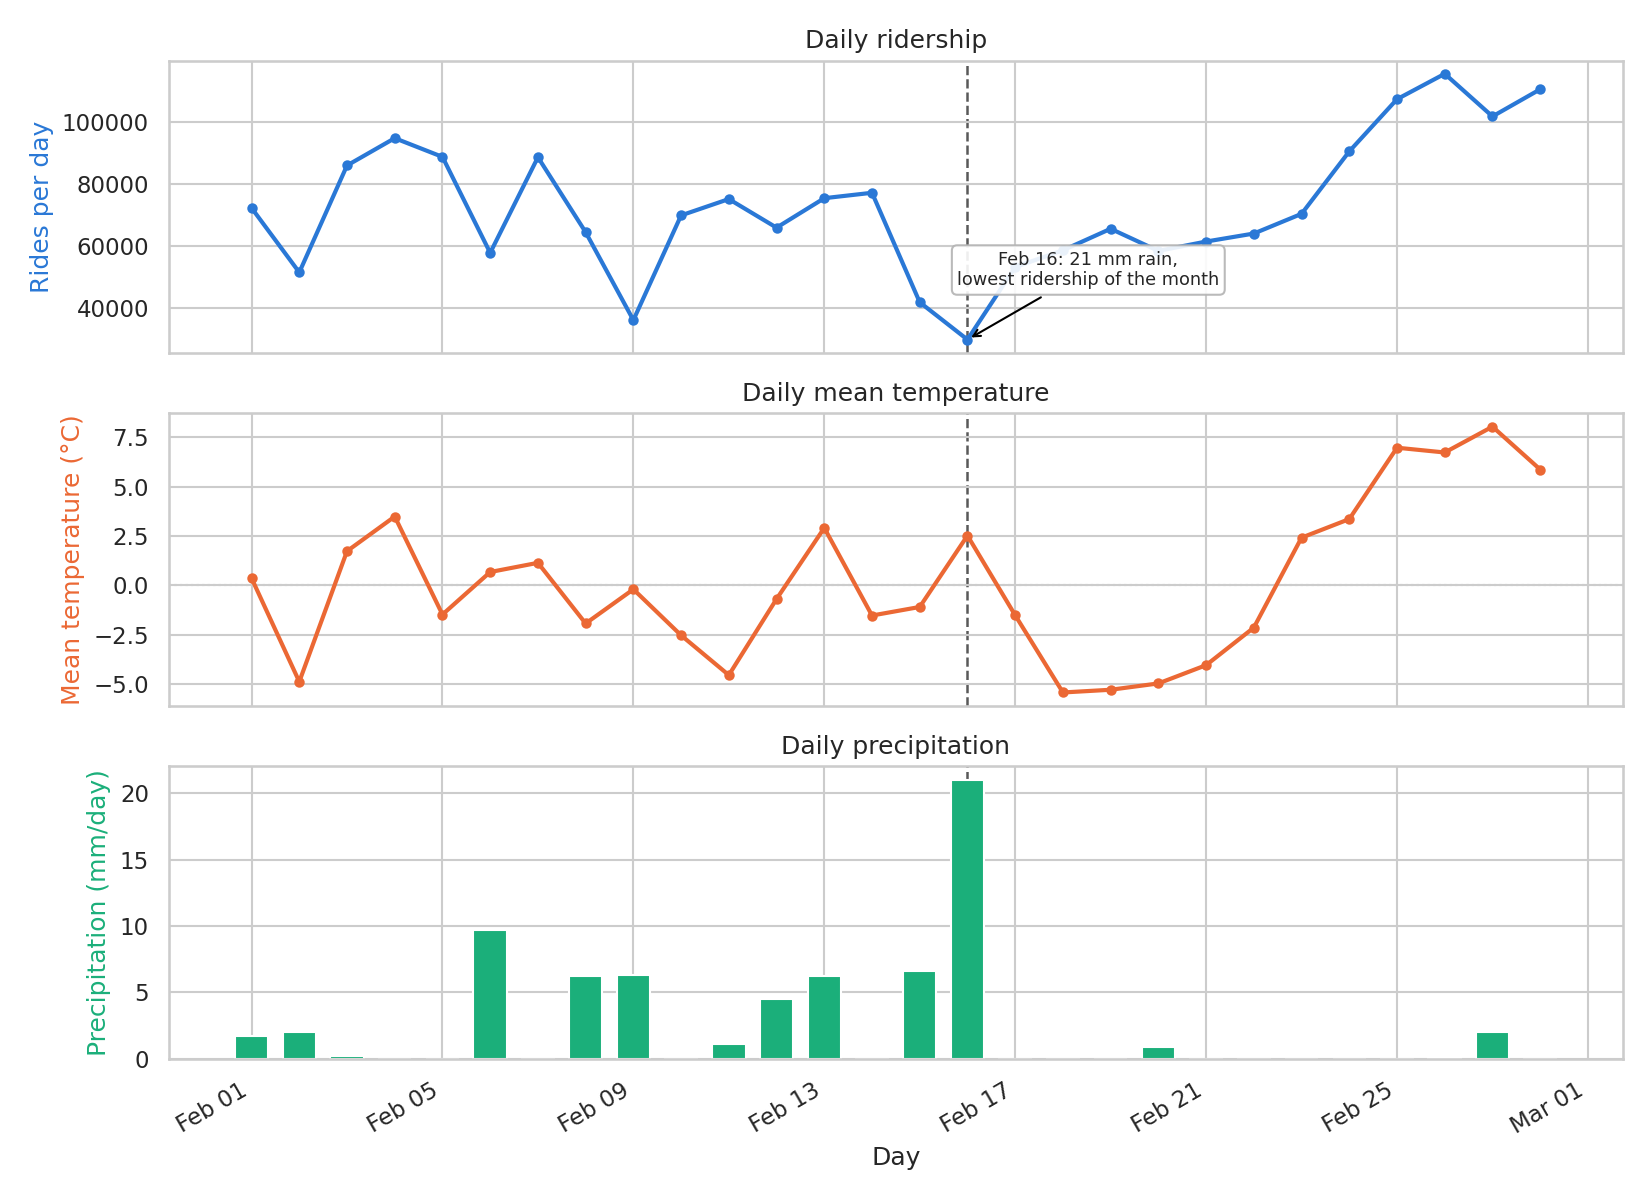
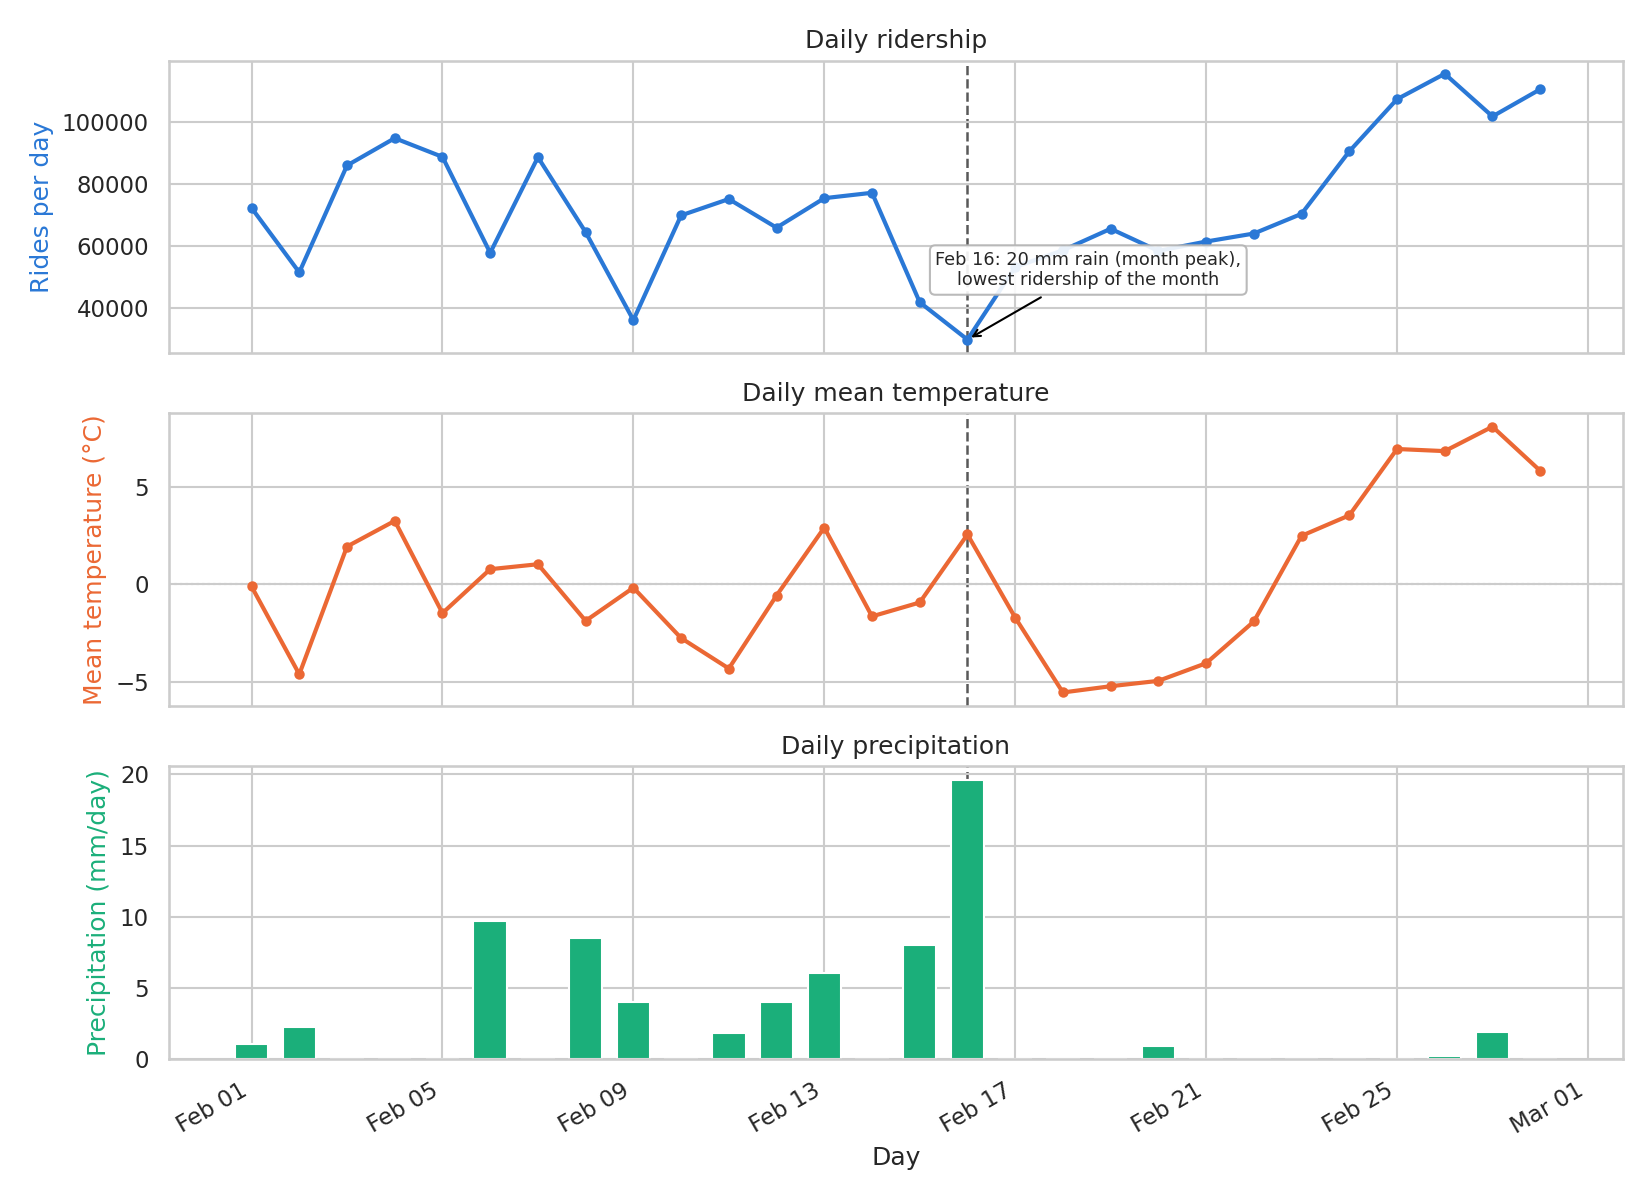
Refine weather consistencies

diff --git a/src/ingestion/sources/weather.py b/src/ingestion/sources/weather.py
@@ -39,8 +39,14 @@ def _get_date_range(min_date: str, max_date: str) -> tuple[date, date]:
     end = min(_yyyymm_to_last_of_month(range_end_yyyymm), date.today())
     return start, end
 
-def _create_weather_dataframe(weather_json: dict) -> pl.DataFrame:
-    """Convert the Open-Meteo hourly payload into a parquet-ready DataFrame."""
+def _create_weather_dataframe(weather_json: dict, start: date, end: date) -> pl.DataFrame:
+    """Convert the Open-Meteo hourly payload into a parquet-ready DataFrame.
+
+    Timestamps arrive in UTC and are localised here rather than by the API: the
+    archive applies a single fixed offset to a whole request (whichever one the
+    location is on today), so asking it for local time mislabels by an hour every
+    date sitting on the other side of a DST boundary.
+    """
     hourly = weather_json.get("hourly", {})
     if not hourly or not hourly.get("time"):
         raise ValueError("Weather API response did not include hourly data")
@@ -48,8 +54,15 @@ def _create_weather_dataframe(weather_json: dict) -> pl.DataFrame:
     return (
         pl.DataFrame(hourly)
         .with_columns(
-            pl.col("time").str.strptime(pl.Datetime, format="%Y-%m-%dT%H:%M").alias("datetime"),
+            pl.col("time")
+            .str.strptime(pl.Datetime, format="%Y-%m-%dT%H:%M")
+            .dt.replace_time_zone("UTC")
+            .dt.convert_time_zone(settings.weather_timezone)
+            .dt.replace_time_zone(None)
+            .alias("datetime"),
         )
+        # The UTC window is padded by a day on each side, so trim back to the days asked for.
+        .filter(pl.col("datetime").dt.date().is_between(start, end))
         .with_columns(
             # Year column drives the parquet partitioning
             pl.col("datetime").dt.year().alias("year"),
@@ -66,23 +79,25 @@ def download_weather_data(min_date: str, max_date: str, force_download: bool = F
     start_date, end_date = _get_date_range(min_date, max_date)
 
     log.info(f"[DOWNLOAD] Downloading weather {start_date.isoformat()} -> {end_date.isoformat()}...")
+    # Pad the requested window by a day on each side so that shifting UTC back to
+    # local time still covers both endpoints (the archive stops at today).
     response = requests.get(
         settings.weather_api_url,
         params={
             "latitude":        settings.nyc_coords[0],
             "longitude":       settings.nyc_coords[1],
-            "start_date":      start_date.isoformat(),
-            "end_date":        end_date.isoformat(),
+            "start_date":      (start_date - timedelta(days=1)).isoformat(),
+            "end_date":        min(end_date + timedelta(days=1), date.today()).isoformat(),
             # Hourly granularity is the smallest resolution available across the full historical range
             "hourly":          "temperature_2m,precipitation,weather_code,wind_speed_10m",
-            "timezone":        settings.weather_timezone,
+            "timezone":        "UTC",
             "wind_speed_unit": "kmh",
         },
         timeout=(5, 120),
     )
     response.raise_for_status()
 
-    weather_data = _create_weather_dataframe(response.json())
+    weather_data = _create_weather_dataframe(response.json(), start_date, end_date)
     weather_data.write_parquet(
         settings.weather_data_dir,
         row_group_size=100_000,

diff --git a/docs/technical-report/chapters/weather.tex b/docs/technical-report/chapters/weather.tex
@@ -3,12 +3,12 @@ To enrich the dashboard with meteorological analysis, we incorporate hourly NYC 
 
 \subsection{Dataset Structure}
 Weather data are queried via the Open-Meteo JSON API by specifying coordinates, a date range, and variables.
-The API returns parallel hourly arrays derived from reanalysis models, that updates with a few days' lag, keeping the historical analysis stable.
+The API returns parallel hourly arrays derived from reanalysis models that update with a few days' lag, keeping the historical analysis stable.
 
 \subsubsection{Original Structure}
 The dataset includes several attributes, but we consider only the following main fields:
 \begin{itemize}
-  \item \textbf{Timestamp (time)}: hourly observation time, requested in the \texttt{America/New\_York} timezone so that it aligns with the trip timestamps.
+  \item \textbf{Timestamp (time)}: hourly observation time, requested in UTC and converted to \texttt{America/New\_York} on our side so that it aligns with the trip timestamps.
   \item \textbf{Temperature (temperature\_2m)}: air temperature in \si{\degreeCelsius}.
   \item \textbf{Precipitation}: hourly precipitation in millimetres.
   \item \textbf{Weather Code}: WMO weather condition code.
@@ -22,17 +22,18 @@ Rather than examining weather in isolation, the following section focuses direct
 \paragraph{Ridership vs. Weather}
 Figure~\ref{fig:rides_vs_weather} illustrates daily ridership alongside mean temperature and total precipitation.
 The data shows a clear inverse relationship between precipitation and usage: the month's peak precipitation directly coincides with its lowest ridership volume.
+Meanwhile for the temperature, it's possible to see also a positive correlation with ridership, although the effect is less pronounced than that of precipitation.
 This confirms that weather tracking provides valuable context for interpreting demand fluctuations and supporting operational planning.
 
 \begin{figure}[H]
     \centering
     \includegraphics[width=\textwidth]{../media/rides_vs_weather.png}
-    \caption{Daily ridership, mean temperature, and total precipitation over the reference month, plotted on aligned date axes with individual scales. The dashed guide highlights 16 February, which recorded the highest rainfall and the lowest ridership.}
+    \caption{Daily ridership, mean temperature, and total precipitation over the reference month, plotted on aligned date axes with individual scales. The dashed guide highlights 16 February, the month's wettest day and also its least ridden.}
     \label{fig:rides_vs_weather}
 \end{figure}
 
 \subsection{Data Quality}
-The archive is complete, with an hourly series covering the entire year and no missing values in any variable.
+The archive is complete, with an hourly series covering the entire reference year and no missing values in any variable.
 The issues we found therefore concern how the values are localised and what they represent, rather than gaps in the data.
 
 \paragraph{Spatial Coverage}
